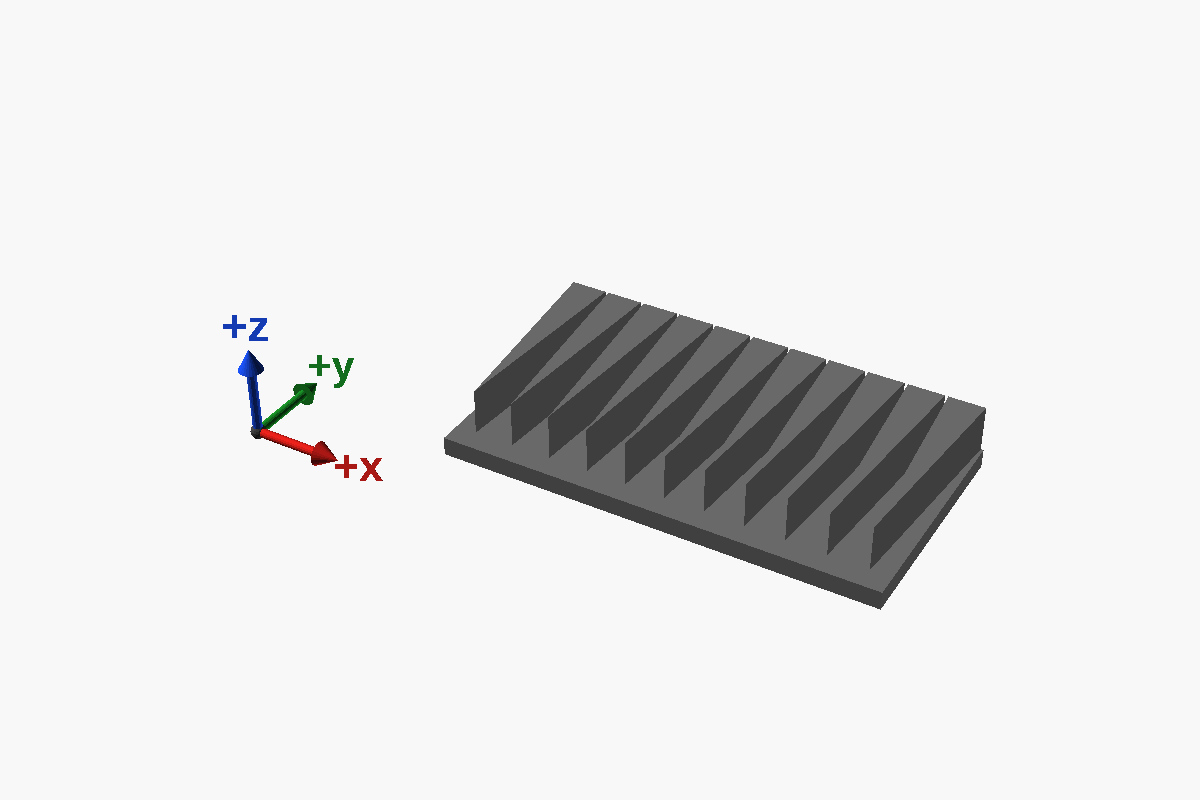
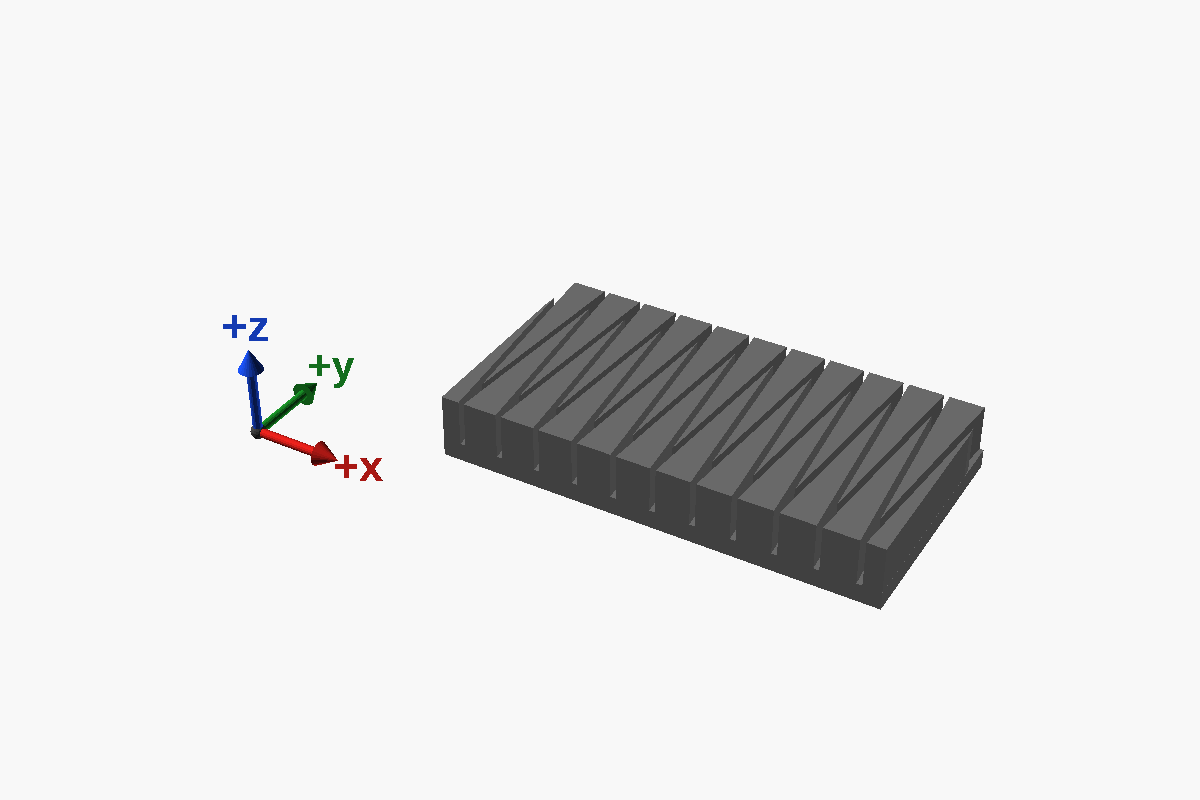
feat(bentobox): teeth from below on the paper frame's caps
Each cap now has a tooth in the end of every pleat channel open at the
bottom as well as a wedge in every one open at the top, so the paper's
cut end sits in a zigzag slot between them, paper_t + cap_slot_play
wide (0.5 mm for 0.3 mm paper). The dirty side is at the higher
pressure, so the air presses the paper onto the teeth and closes the
slot; with wedges alone it pushed the paper away from them. The teeth
also hold up the paper's ends, which stand over the ledge's opening,
and cover no paper the wedges did not. cap_teeth_below = false gives
the wedge-only cap back.

The half teeth at the cap's edges were first clipped flush with the
plate's sides: PrusaSlicer still called the cap manifold, but the mesh
had 12 broken faces and three bodies. They now stop 0.01 mm inside.

The slot slices as 23 separate outlines a layer, 0.48 mm apart at the
narrowest, just over a bead; the build page says to try one cap on an
offcut first. Fits 8 of 8, controls 11 of 11 (one more, for the
teeth), figures 6 of 6; the cap passes scad-check in TPU 95A, 52 m and
5 g.

Changed region(s): [[0.37, 0.375, 0.8017, 0.75]]

diff --git a/scripts/bentobox-checks.py b/scripts/bentobox-checks.py
@@ -52,6 +52,7 @@ CONTROLS = [
     ("check_ring_opening", [("ring_beads", "6")], "the ring's walls thickened over the ledge's opening"),
     # The wedges' width is derived; overriding it moves the wedges and leaves the paper, drawn from its own values.
     ("check_wedges_paper", [("wedge_w", "4")], "the caps' wedges made wider than the paper's channels"),
+    ("check_wedges_paper", [("tooth_w", "4")], "the caps' teeth from below made wider than theirs"),
     # A missing original makes every intersection empty, which reads as a pass: its import's WARNING must fail it.
     ("check_section_carbon", [("carbon_stl", '"original/missing.stl"')], "the housing's STL missing - must be reported, not passed"),
     ("check_ring_holder", [("hepa_stl", '"original/missing.stl"')], "the holder's STL missing - must be reported, not passed"),

diff --git a/docs/bentobox-scrubber.md b/docs/bentobox-scrubber.md
@@ -19,7 +19,7 @@ The remix adds three parts, and changes nothing of the original:
 |---|---|---|
 | **Section** | Goes between the carbon housing and the fan case, holding a flat filter sheet that stops carbon dust reaching the fans. Its top is the fan case's tongue and its bottom the housing's groove, with the same magnets, so it drops into any BentoBox v2.0 stack. | [`bentobox-section.scad`](../models/bentobox/bentobox-section.scad) |
 | **Paper ring** | Stands on the HEPA holder's ledge in place of the cartridge and holds a cut piece of pleated paper. | [`bentobox-hepa-ring.scad`](../models/bentobox/bentobox-hepa-ring.scad) |
-| **Paper cap** | Two, in TPU, one on each end of the paper: their wedges close the ends of the pleats the dirty air comes into. | [`bentobox-hepa-cap.scad`](../models/bentobox/bentobox-hepa-cap.scad) |
+| **Paper cap** | Two, in TPU, one on each end of the paper: wedges from above and teeth from below hold the paper's cut end in a zigzag slot, closing its pleats' ends. | [`bentobox-hepa-cap.scad`](../models/bentobox/bentobox-hepa-cap.scad) |
 
 **Not printed yet.** Every fit is checked against the original's STLs (see *Checking it*), not yet against
 printed parts.
@@ -70,33 +70,39 @@ A ring holds the paper there, and a TPU cap on each end closes its pleats' ends.
 
 - **Why the ends need closing.** Pleated paper is a row of channels: one open at the top, where the dirty
   air comes in, then one open at the bottom, where it leaves after passing through the paper between them.
-  Cut, each channel is open at its ends too, and air could go round the paper there. Each cap's wedges fill
-  the ends of the channels open at the top; those open at the bottom carry filtered air and can stay open.
+  Cut, each channel is open at its ends too, and air could go round the paper there. Each cap has a wedge
+  in the end of every channel open at the top and a tooth in the end of every channel open at the bottom,
+  so the paper's cut end sits in a zigzag slot between them, 0.5 mm wide for 0.3 mm paper. The dirty side
+  is the one at higher pressure, by about 85 Pa, so the air presses the paper onto the teeth and closes
+  the slot; with wedges alone it would push the paper away from them. The teeth also hold up the paper's
+  ends, which stand over the ledge's opening, and they cover no paper the wedges do not already cover.
 - **Cutting the paper.** For this build's paper, 20 mm deep with about 3.3 mm between top folds: a piece
   **75.7 mm long along the folds, and 11 pleats across**, both long edges cut along a top fold. Count the
   pleats rather than measuring the width: folded, that is about 36.7 mm, and the ring spreads it to 37.7.
   The roll's 300 × 100 mm pack gives six pieces.
-- **Putting it together.** Push a cap onto each end of the piece, wedges into the channels, and drop the
-  three into the ring; the ring stands on the ledge like the cartridge. To take it out, lift the holder off
-  the stack and tip it over.
+- **Putting it together.** Push a cap onto each end of the piece, with its wedges at the top, where the
+  air comes in, and every pleat wall in its slot. Drop the three into the ring; the ring stands on the
+  ledge like the cartridge. To take it out, lift the holder off the stack and tip it over. Print one cap
+  first and try it on an offcut: the slot is barely wider than a printed line, and how well TPU keeps it
+  open is for the print to show.
 - **If dust gets round it.** Where the paper's outer folds meet the ring's long walls nothing is glued. If a
   dusty streak ever shows along an edge on the paper's underside, run hot glue along that seam: standard
   sticks, not low-temperature ones, since the chamber runs at about 45 °C during an ASA print. Hot glue
   peels off the ASA ring, so the ring can still be used again.
 
-![A cap as it prints: the plate on the bed, the wedges standing up out of it](bentobox/paper-cap.png)
+![A cap as it prints: the plate on the bed, the wedges and teeth standing up out of it, the zigzag slot between them](bentobox/paper-cap.png)
 
 **Other paper:** change its three values in
 [`bentobox.params.scad`](../models/bentobox/bentobox.params.scad) - `paper_depth` (fold to fold),
 `paper_pitch` (top fold to top fold) and `paper_t` (its thickness) - and export the ring and the cap again.
 The ring stands as tall as the paper is deep. The pleats across are the whole number nearest to filling
-the ring, and the wedges are spaced to match; rendering either part echoes the new cut. A thickness guessed
-on the thin side is the safe way to be wrong: the wedges come out a little too wide, and the TPU and the
-pleats take that up, where too thick a guess would leave a gap beside each wedge.
+the ring, and the wedges and teeth are spaced to match; rendering either part echoes the new cut. The slot
+is `cap_slot_play`, 0.2 mm, wider than `paper_t`: paper thicker than the slot will not go in, and thinner
+paper sits loose and is pressed onto the teeth. `cap_teeth_below = false` leaves the wedges alone.
 
 **Still to confirm** for this build's paper: the 3.3 mm between folds is worked out from the roll, 1200 mm
-folded into 100, not counted, and the 0.3 mm thickness is an estimate. Anything from 28 to 30 folds in 100
-mm gives the same parts.
+folded into 100, not counted, and the 0.3 mm thickness is an estimate - the one that matters, since it sets
+the slot. Anything from 28 to 30 folds in 100 mm gives the same parts.
 
 ## Printing
 
@@ -107,7 +113,7 @@ them, the section and the ring bottom down, a cap with its plate on the bed. No 
 |---|---|---|---|---|
 | Section | ASA | 1 | 1 h 43 m | 16 g |
 | Paper ring | ASA | 1 | 54 m | 7 g |
-| Paper cap | TPU 95A | 2 | 36 m each | 3 g each |
+| Paper cap | TPU 95A | 2 | 52 m each | 5 g each |
 
 Times and weights are PrusaSlicer's, at 0.2 mm with the house profile `0.2mm QUALITY @MK3 - no skirt, no
 brim, no crossing perimeter`, as [`scad-check.sh`](https://github.com/AlonRR/scad-tools) slices them, with
@@ -209,9 +215,9 @@ OPENSCAD="<the OpenSCAD nightly>" uv run scripts/bentobox-checks.py all
 It intersects the section with the carbon housing above it and the fan case below it, puts a magnet across
 each joint through both parts' holes, and runs the air's way from the housing's floor openings down through
 the section. For the paper's frame it stands the ring in the original HEPA holder, runs the ledge's opening
-up through the ring, and sets the caps' wedges in a model of the paper drawn from the paper's own values.
-Each must come out empty. Every check has a positive control, something broken on purpose that it must
-catch, and the run fails if one passes unnoticed: 8 fits and 10 controls.
+up through the ring, and sets the caps' wedges and teeth in a model of the paper drawn from the paper's own
+values. Each must come out empty. Every check has a positive control, something broken on purpose that it
+must catch, and the run fails if one passes unnoticed: 8 fits and 11 controls.
 
 [`bentobox.params.scad`](../models/bentobox/bentobox.params.scad) holds the original's dimensions, measured
 by sectioning its STLs, and every setting of the section and of the paper's frame.
